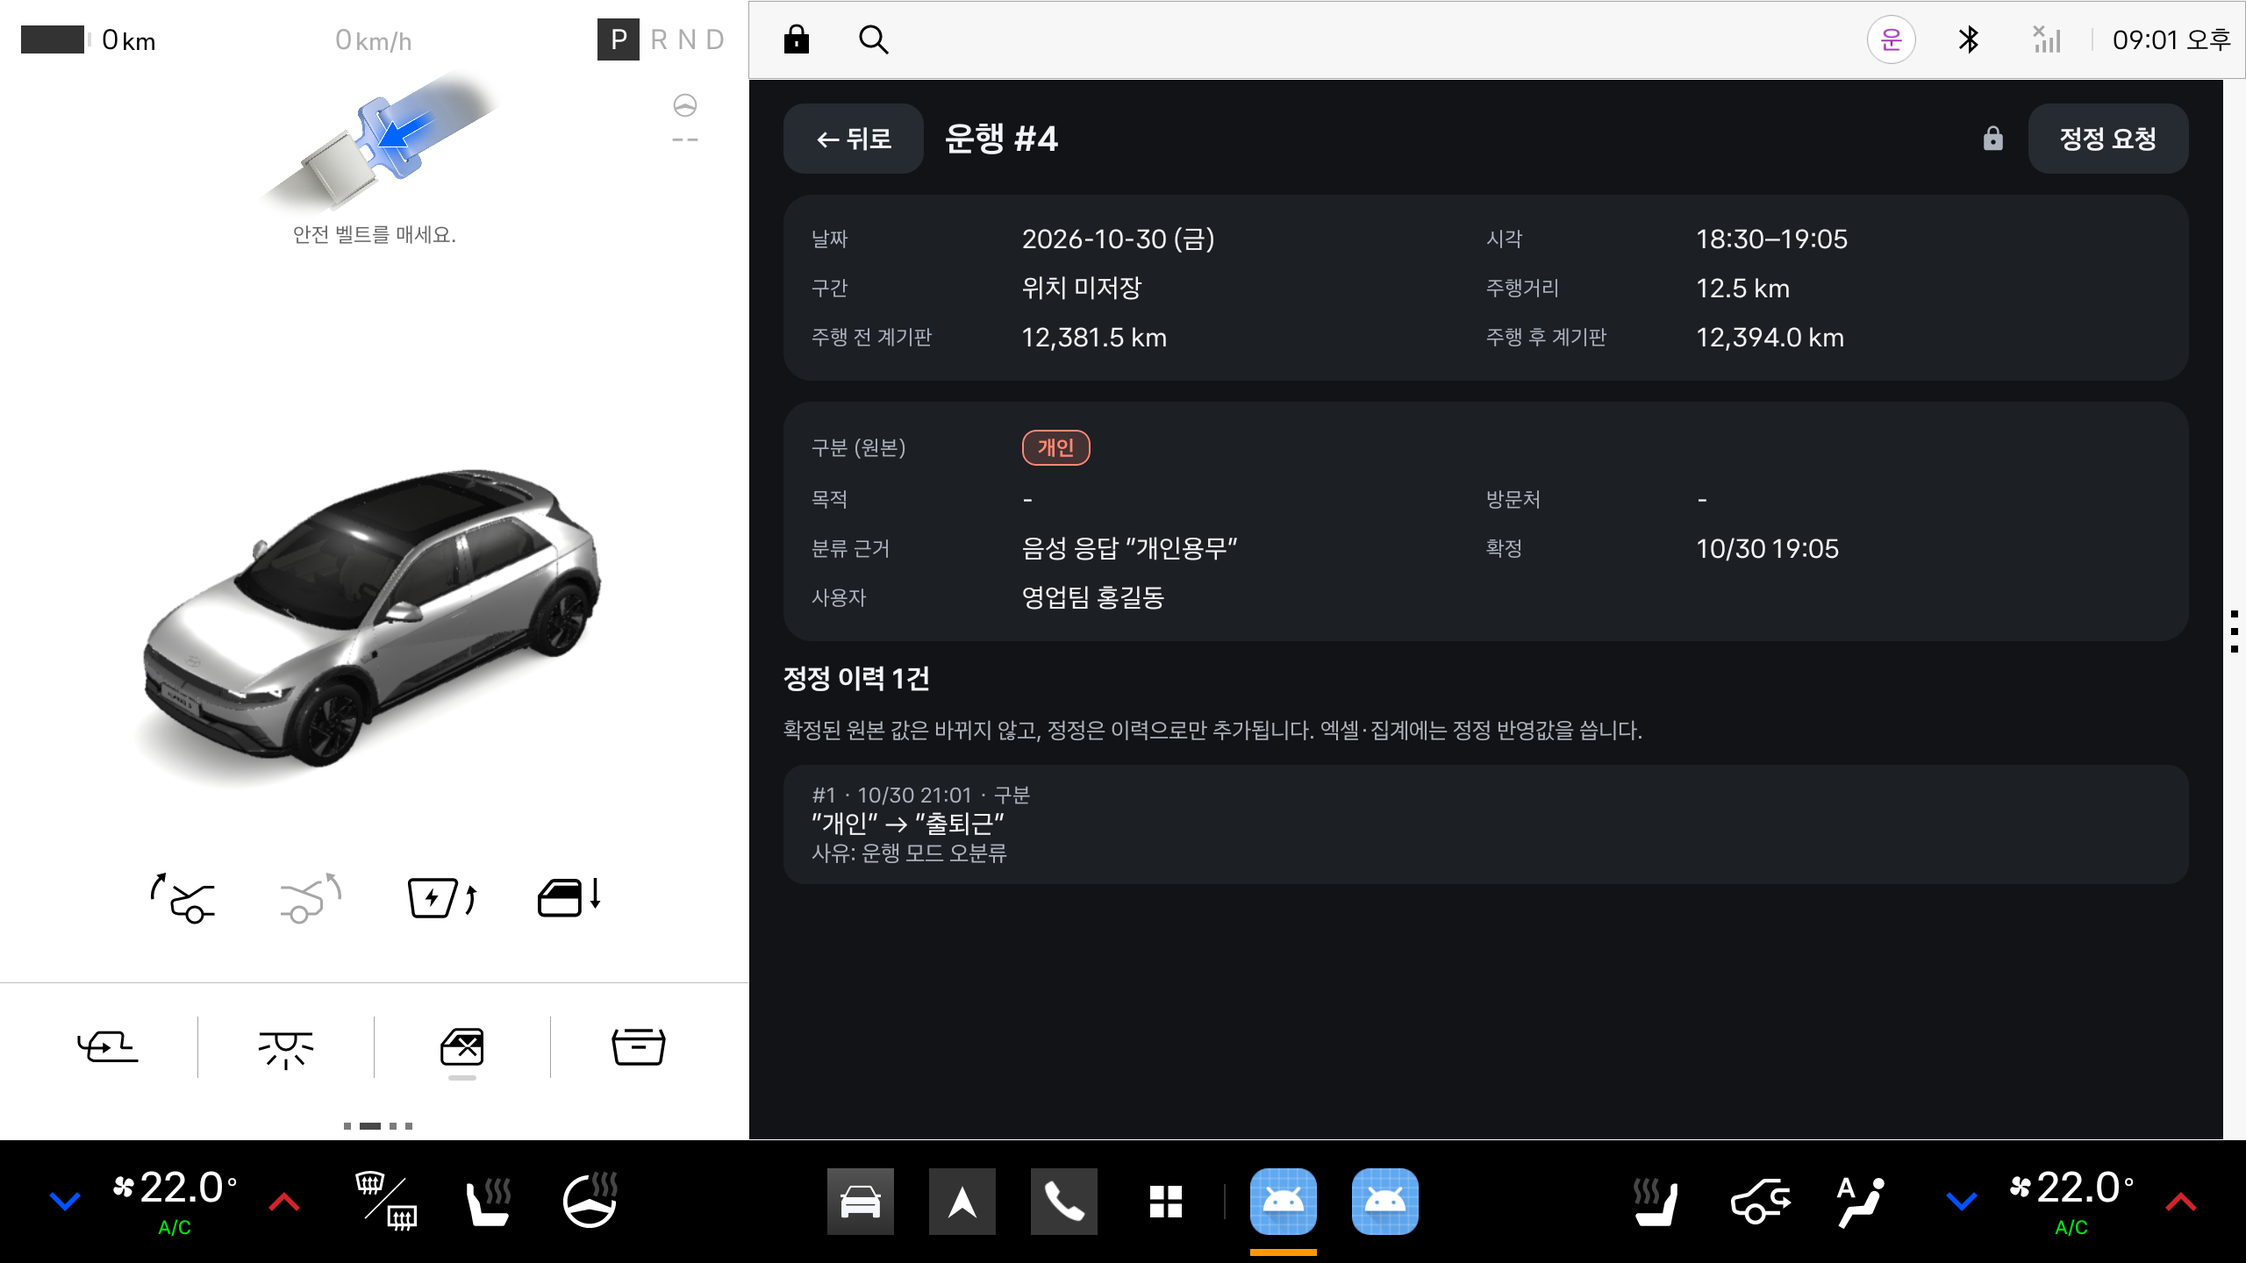
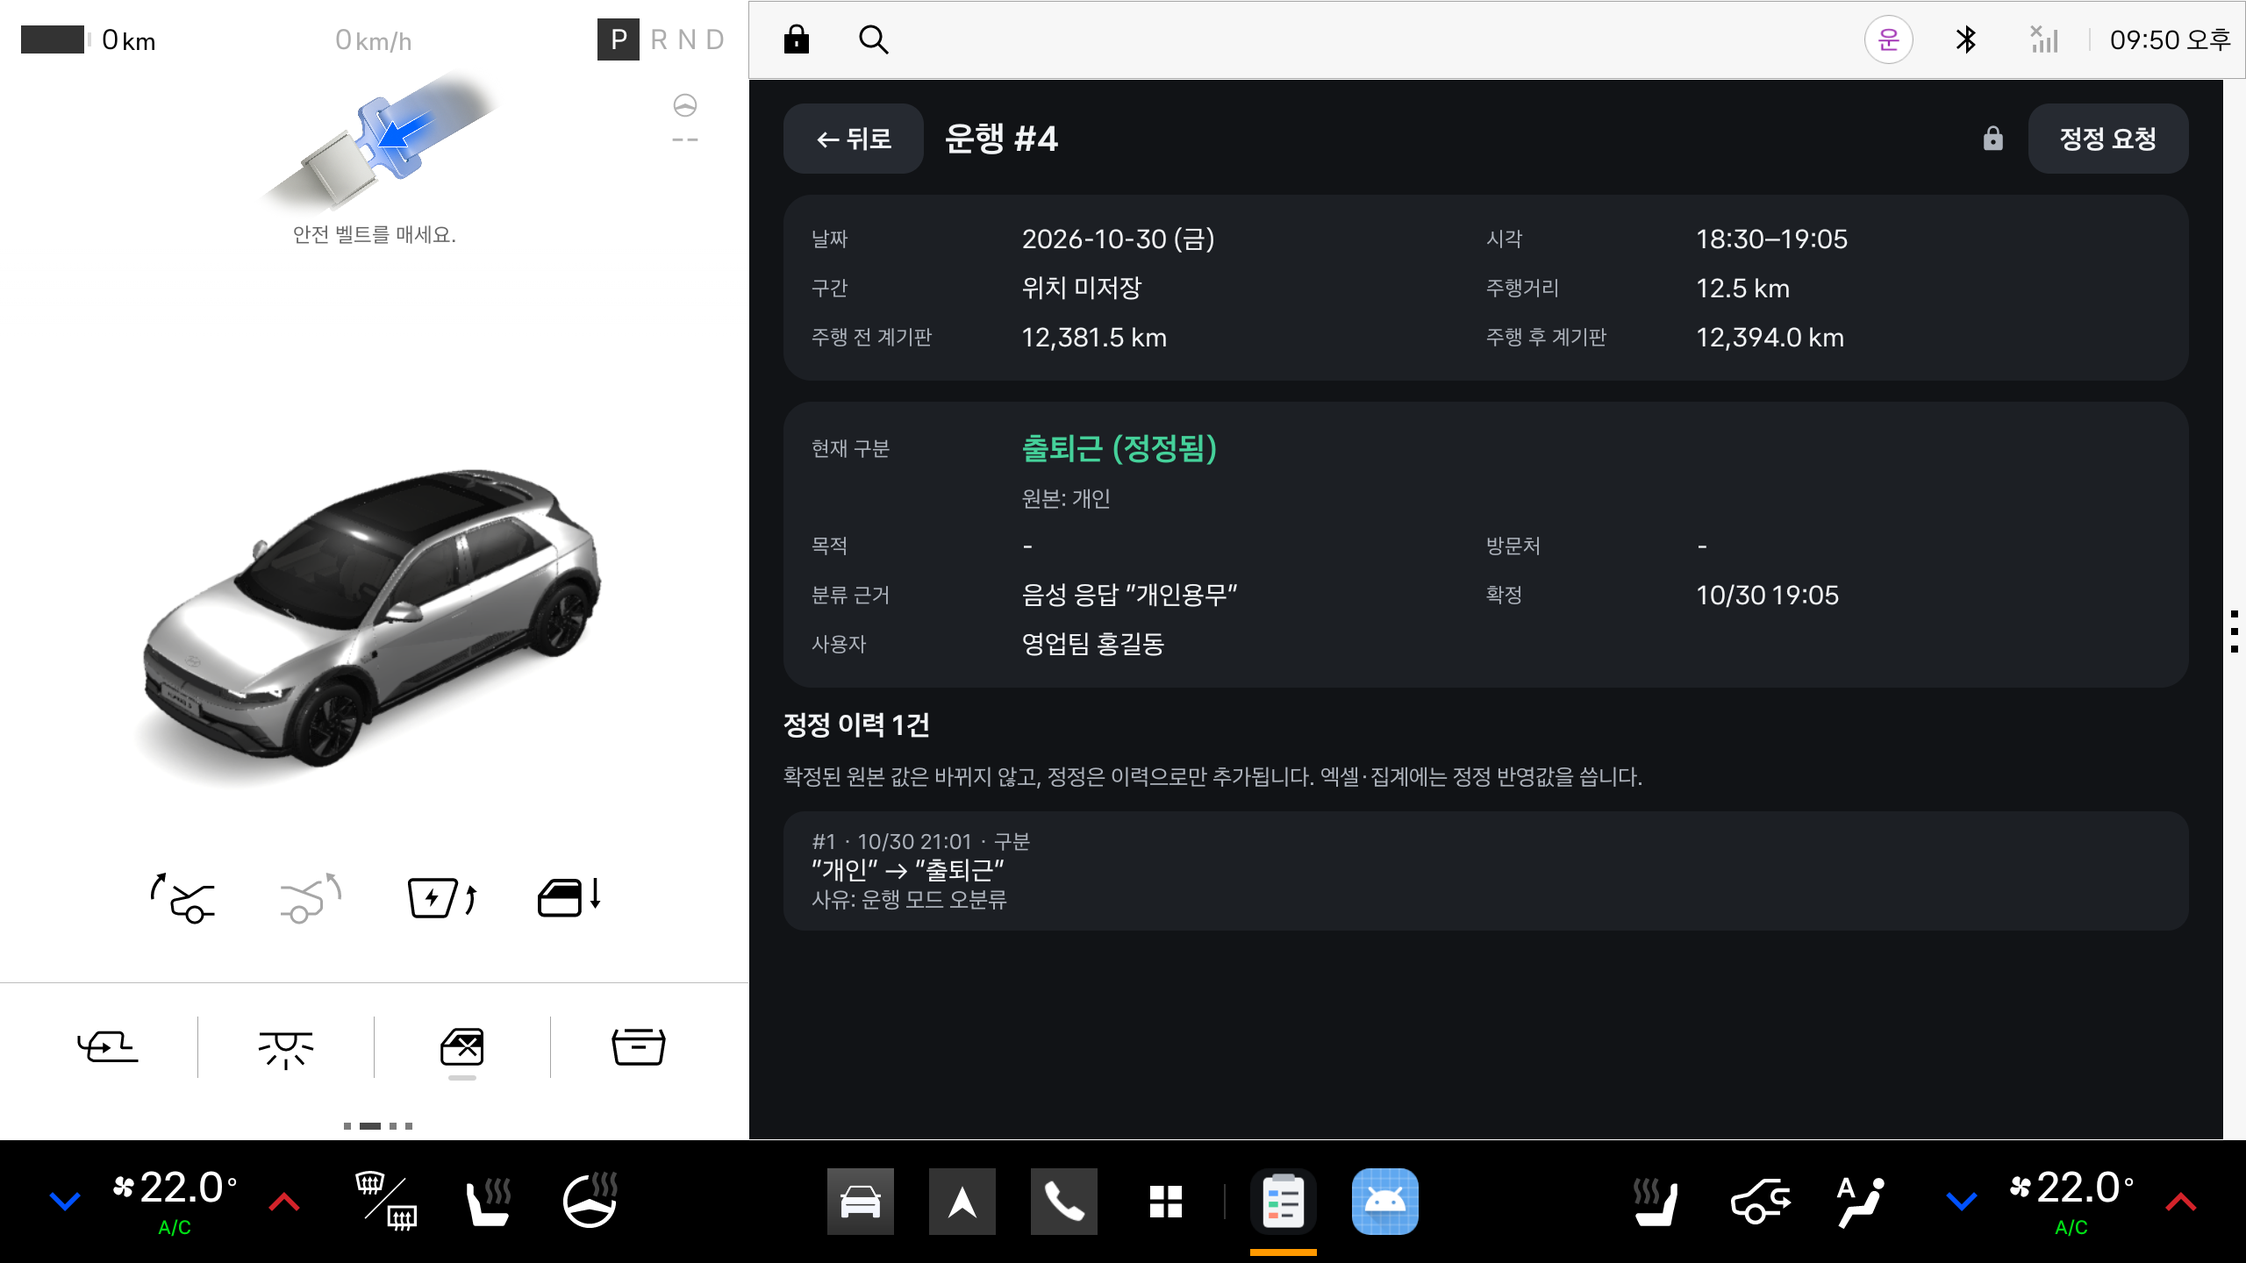
Count only confirmed trips and show corrected trip types
Ledger rows and totals (home summary, ratio, spreadsheet, Gleo ratio) now
use confirmed trips only; unconfirmed trips are listed separately and
excluded from the spreadsheet with a footer note. Home rows mark
corrected trips, the detail screen shows the current type large with the
original below, and personal rows read as personal with no location.

diff --git a/app/src/main/java/app/bizdrivelog/ui/Screens.kt b/app/src/main/java/app/bizdrivelog/ui/Screens.kt
@@ -206,7 +206,7 @@ private fun MonthSummary(records: List<TripRecord>) {
     ) {
         Row(verticalAlignment = Alignment.Bottom) {
             Column(Modifier.weight(1f)) {
-                Text("${month.year}년 ${month.monthValue}월 업무 사용 비율", style = Type.BodyM, color = Palette.TextSub)
+                Text("${month.year}년 ${month.monthValue}월 업무 사용 비율 (확정 운행)", style = Type.BodyM, color = Palette.TextSub)
                 Text(String.format(Locale.KOREA, "%.1f%%", totals.ratioPercent), fontSize = 64.sp, lineHeight = 72.sp, fontWeight = FontWeight.ExtraBold)
             }
             SummaryValue("총 주행거리", formatKm(totals.totalKm))
@@ -221,10 +221,15 @@ private fun MonthSummary(records: List<TripRecord>) {
                 .forEach { (mode, km) -> Box(Modifier.weight(km.toFloat()).fillMaxHeight().background(mode.color)) }
         }
         Spacer(Modifier.height(16.dp))
-        Row(horizontalArrangement = Arrangement.spacedBy(48.dp)) {
+        Row(horizontalArrangement = Arrangement.spacedBy(48.dp), verticalAlignment = Alignment.CenterVertically) {
             Legend(TripMode.BUSINESS, business)
             Legend(TripMode.COMMUTE, commute)
             Legend(TripMode.PERSONAL, personal)
+            Spacer(Modifier.weight(1f))
+            // 집계는 확정 운행만. 미확정은 따로
+            if (ledger.pending.isNotEmpty()) {
+                Text("미확정 ${ledger.pending.size}건 · ${formatKm(ledger.pendingKm)} (집계 제외)", style = Type.BodyS, color = Palette.Pending)
+            }
         }
     }
 }
@@ -268,7 +273,7 @@ private fun TripRowCard(record: TripRecord, onClick: () -> Unit) {
             Text(timeRange(trip), style = Type.BodyS, color = Palette.TextSub)
         }
         Column(Modifier.weight(1f).padding(end = 24.dp)) {
-            Text(routeText(trip, record), style = Type.BodyL.copy(fontWeight = FontWeight.Bold), maxLines = 1, overflow = TextOverflow.Ellipsis)
+            Text(if (hasNoLocation(trip)) "구간 없음" else routeText(trip, record), style = Type.BodyL.copy(fontWeight = FontWeight.Bold), maxLines = 1, overflow = TextOverflow.Ellipsis)
             subLine(record)?.let { Text(it, style = Type.BodyS, color = Palette.TextSub, maxLines = 1, overflow = TextOverflow.Ellipsis) }
         }
         Text(
@@ -278,18 +283,19 @@ private fun TripRowCard(record: TripRecord, onClick: () -> Unit) {
             textAlign = TextAlign.End,
             modifier = Modifier.width(220.dp),
         )
-        Box(Modifier.width(150.dp), contentAlignment = Alignment.Center) { if (trip.endedAt != null) ModeTag(mode) }
+        Column(Modifier.width(150.dp), horizontalAlignment = Alignment.CenterHorizontally) {
+            if (trip.endedAt != null) ModeTag(mode)
+            // 정정된 운행: 칩은 정정 값, 아래에 표시
+            if (record.corrections.isNotEmpty()) Text("정정됨", style = Type.Label, color = Palette.TextSub)
+        }
         Box(Modifier.width(130.dp), contentAlignment = Alignment.CenterEnd) { if (trip.endedAt != null) ConfirmState(trip.isConfirmed) }
     }
 }
 
-private fun subLine(record: TripRecord): String? {
-    val parts = buildList {
-        if (record.effectiveMode == TripMode.PERSONAL) add("업무사용비율 제외 · 거리만 기록")
-        else record.effectivePurpose.takeIf { it.isNotBlank() }?.let(::add)
-        if (record.corrections.isNotEmpty()) add("정정 ${record.corrections.size}건")
-    }
-    return parts.takeIf { it.isNotEmpty() }?.joinToString(" · ")
+private fun subLine(record: TripRecord): String? = when {
+    record.effectiveMode == TripMode.PERSONAL -> "개인 운행 · 위치 미저장"
+    hasNoLocation(record.trip) -> "위치 미저장 (원본 개인 운행)"
+    else -> record.effectivePurpose.takeIf { it.isNotBlank() }
 }
 
 @Composable
@@ -415,7 +421,7 @@ fun routeText(trip: Trip, record: TripRecord? = null): String {
     val mode = record?.effectiveMode ?: trip.mode
     val visit = (record?.effectiveVisitPlace ?: trip.visitPlace).takeIf { mode == TripMode.BUSINESS && it.isNotBlank() }
     // 개인 운행으로 끝난 운행은 위치가 없다 (나중에 정정으로 분류가 바뀌어도)
-    if (trip.mode == TripMode.PERSONAL && trip.startLat == null && trip.fromPlace == null && trip.toPlace == null) return "위치 미저장"
+    if (hasNoLocation(trip)) return "위치 미저장"
     val from = trip.fromPlace?.label
     if (trip.endedAt == null) return "${from ?: "출발지"} →"
     val to = trip.toPlace?.label
@@ -425,6 +431,10 @@ fun routeText(trip: Trip, record: TripRecord? = null): String {
 }
 
 private const val OTHER_PLACE = "기타 장소"
+
+/** 개인 운행으로 끝나 위치가 없는 운행 (나중에 정정으로 분류가 바뀌어도) */
+internal fun hasNoLocation(trip: Trip) =
+    trip.mode == TripMode.PERSONAL && trip.startLat == null && trip.fromPlace == null && trip.toPlace == null
 
 internal fun timeRange(trip: Trip) = TIME.format(Date(trip.startedAt)) + (trip.endedAt?.let { "–" + TIME.format(Date(it)) } ?: "")
 

diff --git a/app/src/main/java/app/bizdrivelog/export/LedgerExporter.kt b/app/src/main/java/app/bizdrivelog/export/LedgerExporter.kt
@@ -60,16 +60,27 @@ data class LedgerTotals(val totalKm: Double, val businessUseKm: Double) {
     val ratioPercent: Double get() = if (totalKm > 0) Math.round(businessUseKm / totalKm * 1000) / 10.0 else 0.0
 }
 
-/** anomalies: 기간 안의 계기판 값 이상 운행 (거리를 알 수 없어 rows·합계에서 제외) */
-class Ledger(val profile: LedgerProfile, val period: LedgerPeriod, val rows: List<LedgerRow>, val anomalies: List<TripRecord> = emptyList()) {
+/**
+ * rows·합계는 확정 운행만 (확정 기록만 제출한다). 정정이 있으면 정정 반영값.
+ * pending: 기간 안의 미확정 운행 (rows·합계에서 제외, 화면에 따로 표시)
+ * anomalies: 기간 안의 계기판 값 이상 운행 (거리를 알 수 없어 rows·합계에서 제외)
+ */
+class Ledger(
+    val profile: LedgerProfile,
+    val period: LedgerPeriod,
+    val rows: List<LedgerRow>,
+    val anomalies: List<TripRecord> = emptyList(),
+    val pending: List<TripRecord> = emptyList(),
+) {
     val totals = LedgerTotals(round1(rows.sumOf { it.distanceKm }), round1(rows.sumOf { (it.commuteKm ?: 0.0) + (it.businessKm ?: 0.0) }))
     val corrections = rows.flatMap { it.record.corrections }
-    val unconfirmed = rows.count { !it.record.trip.isConfirmed }
+    val pendingKm = round1(pending.sumOf { it.trip.distanceKm ?: 0.0 })
 
     companion object {
         fun build(records: List<TripRecord>, profile: LedgerProfile, period: LedgerPeriod, zone: ZoneId = ZoneId.systemDefault()): Ledger {
+            fun inPeriod(record: TripRecord) = Instant.ofEpochMilli(record.trip.startedAt).atZone(zone).toLocalDate() in period
             val rows = records
-                .filter { it.trip.endedAt != null && it.trip.distanceKm != null }
+                .filter { it.trip.endedAt != null && it.trip.isConfirmed && it.trip.distanceKm != null }
                 .map { it to Instant.ofEpochMilli(it.trip.startedAt).atZone(zone).toLocalDate() }
                 .filter { (_, date) -> date in period }
                 .sortedBy { (record, _) -> record.trip.startedAt }
@@ -86,10 +97,9 @@ class Ledger(val profile: LedgerProfile, val period: LedgerPeriod, val rows: Lis
                         remark = remarkOf(record),
                     )
                 }
-            val anomalies = records.filter {
-                it.trip.odometerAnomaly && Instant.ofEpochMilli(it.trip.startedAt).atZone(zone).toLocalDate() in period
-            }
-            return Ledger(profile, period, rows, anomalies)
+            val anomalies = records.filter { it.trip.odometerAnomaly && inPeriod(it) }
+            val pending = records.filter { it.trip.endedAt != null && !it.trip.isConfirmed && inPeriod(it) }
+            return Ledger(profile, period, rows, anomalies, pending)
         }
 
         /** ⑩ 비고: [구분] 업무 목적 · 방문처 (정정 n건) */
@@ -98,7 +108,6 @@ class Ledger(val profile: LedgerProfile, val period: LedgerPeriod, val rows: Lis
             val detail = listOf(record.effectivePurpose, record.effectiveVisitPlace).filter { it.isNotBlank() }.joinToString(" · ")
             if (detail.isNotEmpty()) append(" $detail")
             if (record.corrections.isNotEmpty()) append(" (정정 ${record.corrections.size}건)")
-            if (!record.trip.isConfirmed) append(" (미확정)")
         }
     }
 }
@@ -200,8 +209,8 @@ object LedgerExporter {
             add("A$foot", "※ 정정 ${ledger.corrections.size}건 반영값입니다. 원본 값과 정정 내역은 '정정 이력' 시트를 참조하세요.", Style.NOTE)
             foot++
         }
-        if (ledger.unconfirmed > 0) {
-            add("A$foot", "※ 미확정 운행 ${ledger.unconfirmed}건이 포함되어 있습니다 (⑩비고에 '미확정' 표시).", Style.NOTE)
+        if (ledger.pending.isNotEmpty()) {
+            add("A$foot", "※ 미확정 운행 ${ledger.pending.size}건은 제외했습니다. 확정한 뒤 다시 내보내면 포함됩니다.", Style.NOTE)
             foot++
         }
         add("A$foot", "검증 코드: ${verifyCode(ledger)}  (원본 대조용 · 이 파일에 담긴 운행·정정 이력의 SHA-256)", Style.NOTE)

diff --git a/app/src/test/java/app/bizdrivelog/export/LedgerConfirmedTest.kt b/app/src/test/java/app/bizdrivelog/export/LedgerConfirmedTest.kt
@@ -1,0 +1,74 @@
+package app.bizdrivelog.export
+
+import app.bizdrivelog.data.Correction
+import app.bizdrivelog.data.CorrectionField
+import app.bizdrivelog.data.LedgerProfile
+import app.bizdrivelog.data.Trip
+import app.bizdrivelog.data.TripMode
+import app.bizdrivelog.data.TripRecord
+import org.junit.Assert.assertEquals
+import org.junit.Assert.assertFalse
+import org.junit.Assert.assertTrue
+import org.junit.Test
+import java.time.LocalDate
+import java.time.ZoneId
+
+/** 집계·엑셀은 확정 운행만, 정정 반영값으로 */
+class LedgerConfirmedTest {
+
+    private val zone = ZoneId.of("Asia/Seoul")
+    private val period = LedgerPeriod(LedgerPeriodKind.THIS_MONTH, LocalDate.of(2026, 10, 1), LocalDate.of(2026, 10, 31))
+
+    private fun trip(id: Long, km: Double, mode: TripMode, confirmed: Boolean): Trip {
+        val at = LocalDate.of(2026, 10, 30).atTime(8, 0).atZone(zone).toInstant().toEpochMilli() + id * 3_600_000
+        val start = 12000.0 + id * 100
+        return Trip(
+            id = id, startedAt = at, startOdometerKm = start, endedAt = at + 600_000, endOdometerKm = start + km,
+            mode = mode, confirmedAt = if (confirmed) at + 700_000 else null,
+        )
+    }
+
+    private fun modeCorrection(tripId: Long, before: TripMode, after: TripMode) =
+        Correction(id = 1, tripId = tripId, field = CorrectionField.MODE, before = before.name, after = after.name, reason = "운행 모드 오분류", createdAt = 0)
+
+    private val records = listOf(
+        TripRecord(trip(1, 12.4, TripMode.BUSINESS, confirmed = true), emptyList()),
+        // 운행 #4처럼 개인 → 출퇴근 정정
+        TripRecord(trip(2, 12.5, TripMode.PERSONAL, confirmed = true), listOf(modeCorrection(2, TripMode.PERSONAL, TripMode.COMMUTE))),
+        TripRecord(trip(3, 11.6, TripMode.BUSINESS, confirmed = false), emptyList()),
+    )
+    private val ledger = Ledger.build(records, LedgerProfile(), period, zone)
+
+    @Test fun unconfirmedTripIsNotInRowsOrTotals() {
+        assertEquals(listOf(1L, 2L), ledger.rows.map { it.record.trip.id })
+        assertEquals(24.9, ledger.totals.totalKm, 0.0)
+    }
+
+    @Test fun unconfirmedTripIsCountedSeparately() {
+        assertEquals(listOf(3L), ledger.pending.map { it.trip.id })
+        assertEquals(11.6, ledger.pendingKm, 0.0)
+    }
+
+    @Test fun correctedModeIsUsedInTotals() {
+        val corrected = ledger.rows.first { it.record.trip.id == 2L }
+        assertEquals(12.5, corrected.commuteKm!!, 0.0)
+        assertEquals(null, corrected.businessKm)
+        // 업무 12.4 + 출퇴근 12.5 = 24.9 → 100%
+        assertEquals(24.9, ledger.totals.businessUseKm, 0.0)
+        assertEquals(100.0, ledger.totals.ratioPercent, 0.0)
+    }
+
+    @Test fun remarkShowsCorrectedModeWithoutUnconfirmedMark() {
+        val remark = ledger.rows.first { it.record.trip.id == 2L }.remark
+        assertTrue(remark.startsWith("[출퇴근]"))
+        assertTrue(remark.contains("정정 1건"))
+        assertFalse(ledger.rows.any { it.remark.contains("미확정") })
+    }
+
+    @Test fun allUnconfirmedGivesEmptyLedger() {
+        val only = Ledger.build(listOf(records[2]), LedgerProfile(), period, zone)
+        assertTrue(only.rows.isEmpty())
+        assertEquals(0.0, only.totals.ratioPercent, 0.0)
+        assertEquals(1, only.pending.size)
+    }
+}

diff --git a/app/src/main/java/app/bizdrivelog/ui/TripScreens.kt b/app/src/main/java/app/bizdrivelog/ui/TripScreens.kt
@@ -157,9 +157,18 @@ fun DetailScreen(record: TripRecord, onBack: () -> Unit, onCorrect: (TripRecord,
             )
         }
         Panel {
+            // 현재 구분(정정 반영)을 크게, 정정됐으면 원본은 작게 아래에
+            val current = record.effectiveMode
             Row(verticalAlignment = Alignment.CenterVertically) {
-                Text("구분 (원본)", style = Type.Label, color = Palette.TextSub, modifier = Modifier.width(240.dp))
-                ModeTag(trip.mode)
+                Text("현재 구분", style = Type.Label, color = Palette.TextSub, modifier = Modifier.width(240.dp))
+                Text(
+                    (current?.label ?: "미분류") + if (record.corrections.isNotEmpty()) " (정정됨)" else "",
+                    style = Type.TitleM,
+                    color = current?.color ?: Palette.Pending,
+                )
+            }
+            if (current != trip.mode) {
+                Text("원본: ${trip.mode?.label ?: "미분류"}", style = Type.BodyS, color = Palette.TextSub, modifier = Modifier.padding(start = 240.dp))
             }
             InfoRow("목적" to trip.purpose.ifBlank { "-" }, "방문처" to trip.visitPlace.ifBlank { "-" })
             InfoRow("분류 근거" to trip.modeBy.ifBlank { "-" }, "확정" to (trip.confirmedAt?.let { DATE_TIME.format(Date(it)) } ?: "미확정"))

diff --git a/app/src/main/java/app/bizdrivelog/ui/ExportScreen.kt b/app/src/main/java/app/bizdrivelog/ui/ExportScreen.kt
@@ -74,11 +74,12 @@ fun ExportScreen(
         ) {
             Text("과세기간 칸: ${ledger.period.formText}", style = Type.BodyM)
             Text(
-                "운행 ${ledger.rows.size}건" + (if (ledger.unconfirmed > 0) " (미확정 ${ledger.unconfirmed}건 포함)" else "") +
-                    " · 정정 ${ledger.corrections.size}건",
+                "확정 운행 ${ledger.rows.size}건 · 정정 ${ledger.corrections.size}건",
                 style = Type.BodyM,
-                color = if (ledger.unconfirmed > 0) Palette.Pending else Palette.Text,
             )
+            if (ledger.pending.isNotEmpty()) {
+                Text("미확정 ${ledger.pending.size}건 · ${formatKm(ledger.pendingKm)}은 제외 (확정하면 포함)", style = Type.BodyS, color = Palette.Pending)
+            }
             if (ledger.anomalies.isNotEmpty()) {
                 Text("$ODOMETER_ANOMALY ${ledger.anomalies.size}건 제외 (종료 누적거리가 시작보다 작음)", style = Type.BodyS, color = Palette.Pending)
             }

diff --git a/app/src/test/java/app/bizdrivelog/export/OdometerAnomalyTest.kt b/app/src/test/java/app/bizdrivelog/export/OdometerAnomalyTest.kt
@@ -20,7 +20,7 @@ class OdometerAnomalyTest {
 
     private fun trip(id: Long, start: Double, end: Double?, mode: TripMode = TripMode.BUSINESS): Trip {
         val at = day.atTime(9, 0).atZone(zone).toInstant().toEpochMilli() + id * 3_600_000
-        return Trip(id = id, startedAt = at, startOdometerKm = start, endedAt = end?.let { at + 600_000 }, endOdometerKm = end, mode = mode)
+        return Trip(id = id, startedAt = at, startOdometerKm = start, endedAt = end?.let { at + 600_000 }, endOdometerKm = end, mode = mode, confirmedAt = end?.let { at + 700_000 })
     }
 
     private fun build(vararg trips: Trip) = Ledger.build(trips.map { TripRecord(it, emptyList()) }, LedgerProfile(), period, zone)
